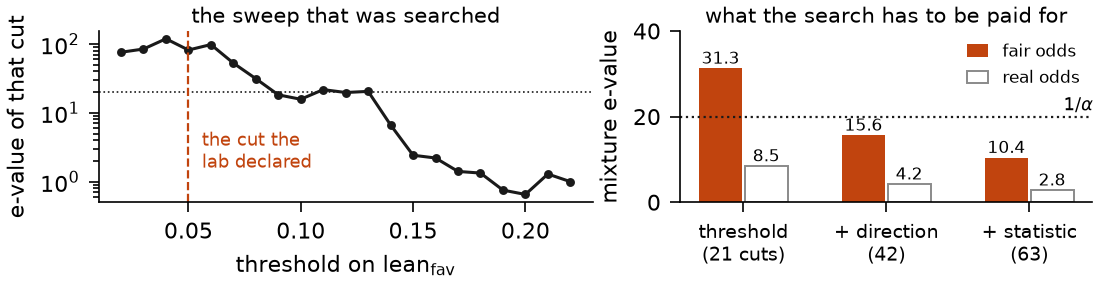
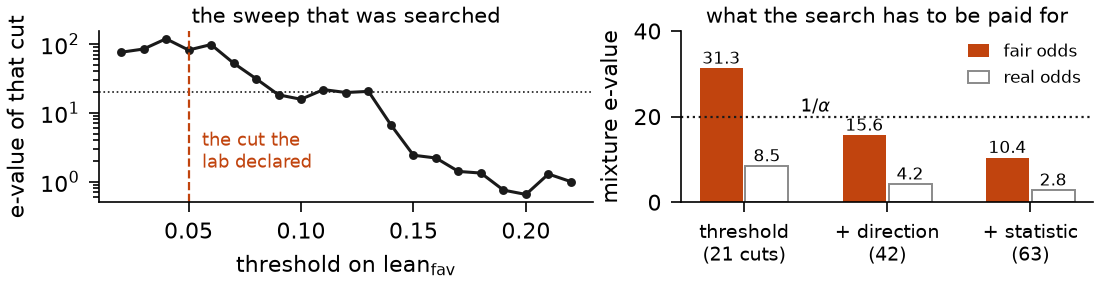
paper(e-values): the 1/alpha marker was sitting under the legend
Cosmetic: after the right panel gained a second bar per rung, the
threshold label collided with the legend it now needs. Moved into the
clear space between the first two groups.

diff --git a/paper/make_figs.py b/paper/make_figs.py
@@ -103,7 +103,7 @@ def fig_posthoc(f):
             ax2.text(b.get_x() + b.get_width() / 2, v + 1.1, f"{v:.1f}",
                      ha="center", fontsize=6.3)
     ax2.axhline(1 / ALPHA, color=INK, lw=0.8, ls=":")
-    ax2.text(2.45, 21.3, r"$1/\alpha$", fontsize=6.5, ha="right")
+    ax2.text(0.5, 21.0, r"$1/\alpha$", fontsize=6.5, ha="center")
     ax2.legend(fontsize=6.3, loc="upper right", handlelength=1.2, borderpad=0.2)
     ax2.set_xticks(x); ax2.set_xticklabels(labels, fontsize=6.8)
     ax2.set_ylabel("mixture e-value"); ax2.set_ylim(0, 40)
